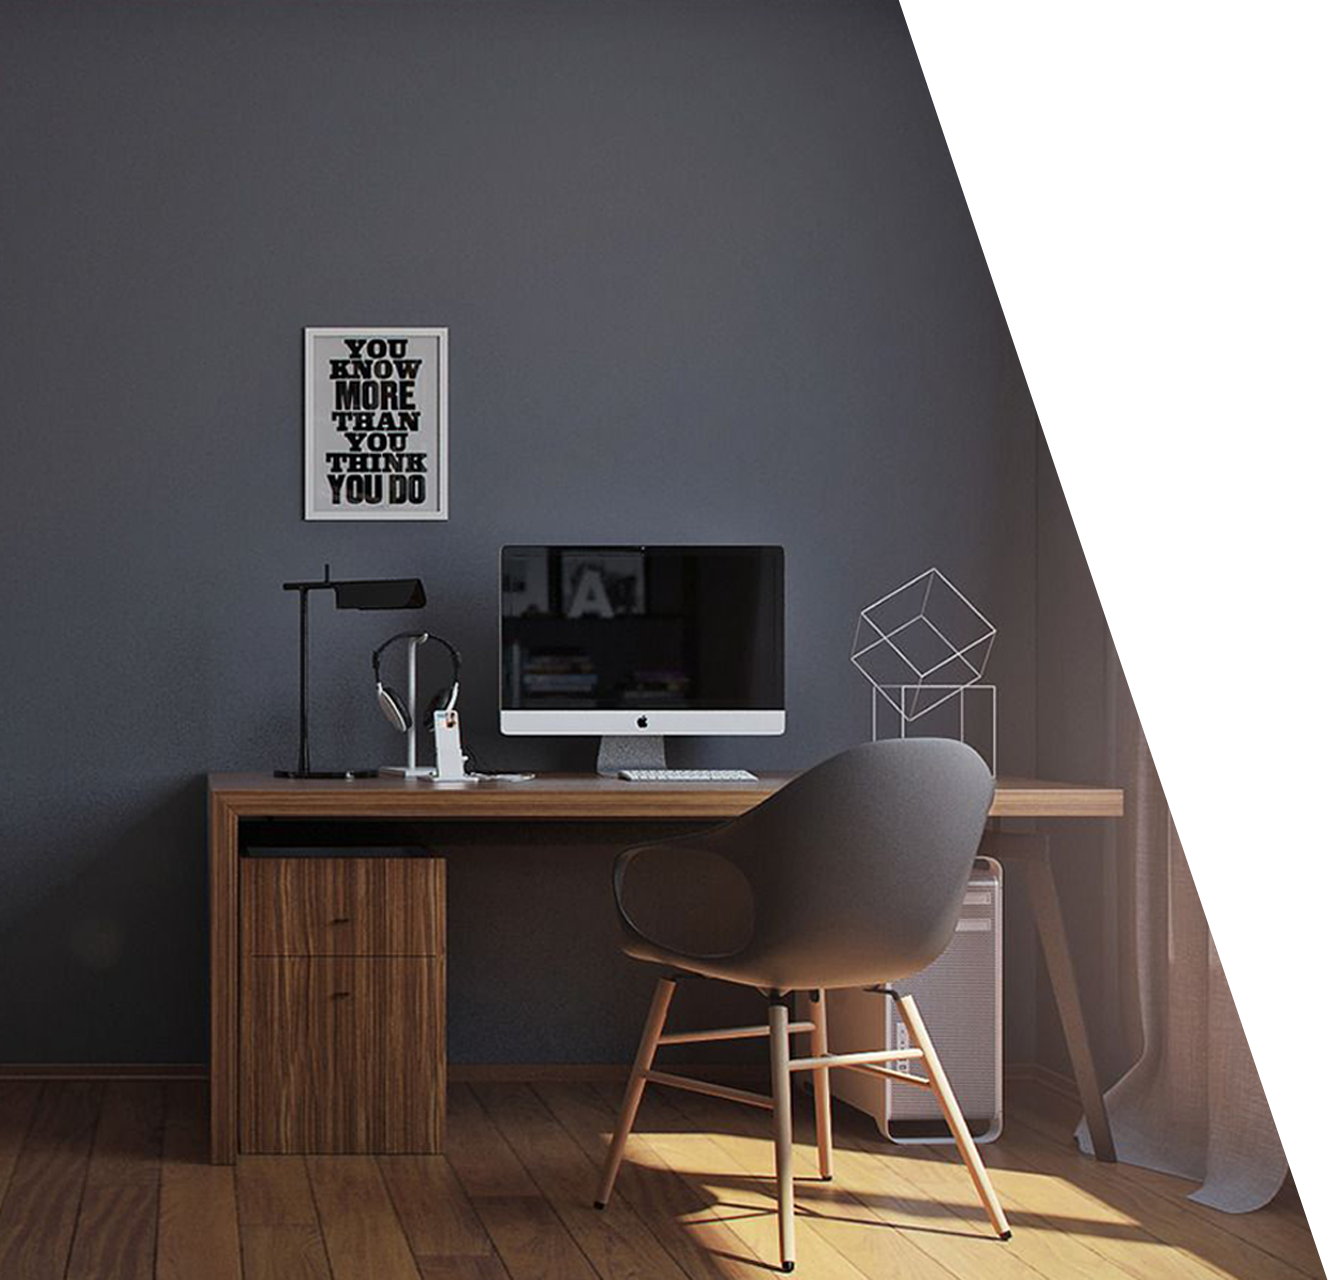
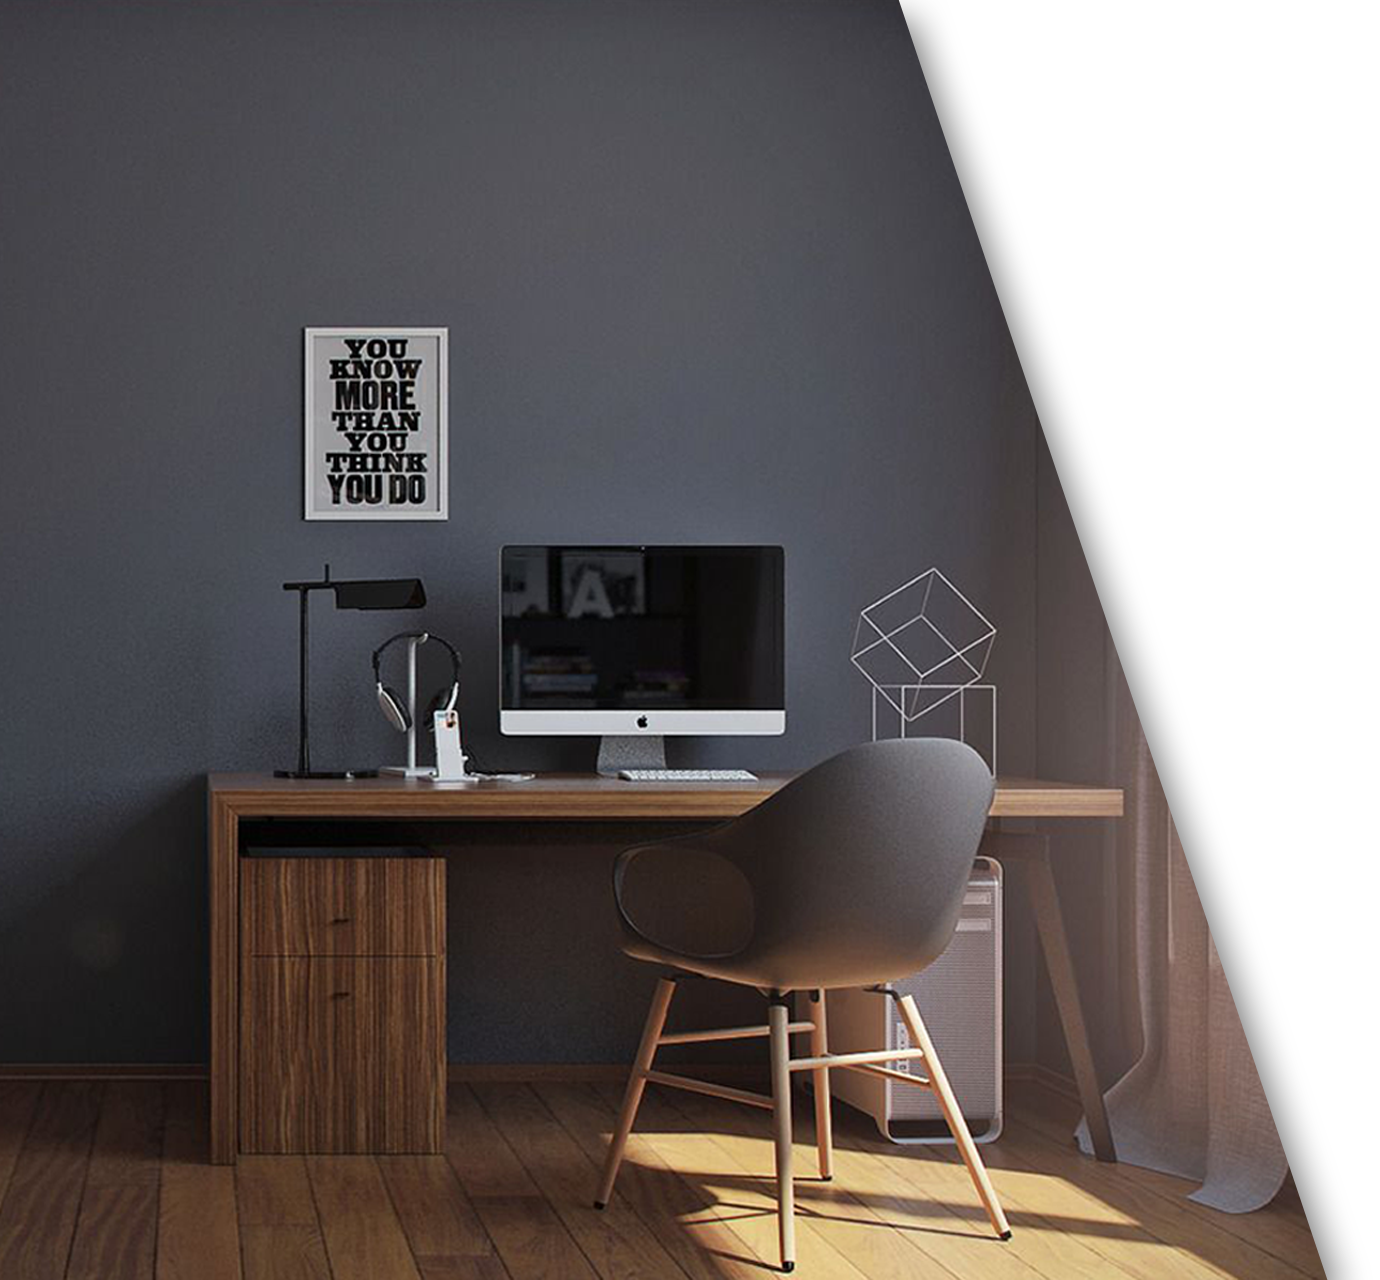
changes

diff --git a/index.html b/index.html
@@ -7,6 +7,7 @@
     <meta name="viewport" content="width=device-width, initial-scale=1.0">
     <meta http-equiv="X-UA-Compatible" content="ie=edge">
     <link rel="stylesheet" href="css/style.css" />
+    <link rel="stylesheet" href="css/main_page.css" />
 </head>
 
 <body>
@@ -17,48 +18,55 @@
             <nav class="menu">
                 <ul class="menu-list">
                     <li class="list-item"><a href="#" class="menu-button">Menu</a></li>
-                    <li class="list-item"><a href="pages/Photoshop_Gellary.html" class="menu-button">Photoshop works</a></li>
-                    <li class="list-item"><a href="pages/Coroldraw_Gellary.html" class="menu-button">Coroldraw works</a></li>
-                    <li class="list-item"><a href="pages/Graphics_Info.html" class="menu-button">Graphics editors</a></li>
+                    <li class="list-item"><a href="pages/Photoshop_Gellary.html" class="menu-button">Photoshop works</a>
+                    </li>
+                    <li class="list-item"><a href="pages/Coroldraw_Gellary.html" class="menu-button">Coroldraw works</a>
+                    </li>
+                    <li class="list-item"><a href="pages/Graphics_Info.html" class="menu-button">Graphics editors</a>
+                    </li>
                     <li class="list-item"><a href="#" class="menu-button">Website by template</a></li>
                 </ul>
             </nav>
         </header>
 
-        <!--Photo of decoration-->
-        <div class="photo">
-            <div class="photo-line"></div>
+        <div class="content">
+            <!--Photo of decoration-->
+            <div class="photo">
+                <img src="img/decoration/decoration_image.png">
+                <div class="photo-line"></div>
+            </div>
+
+            <!--Main content for page-->
+            <main class="main">
+                <header class="header-main">
+                    <div class="header-main-text">
+                        <h1 class="head-page">Practic Report<br>by specialty</h1>
+                    </div>
+
+                    <div class="by-specialty">
+                        <div class="gray-box"></div>
+                        <p class="text-by-specialty">09.02.03<br>Programming in computer systems</p>
+                        <p class="text-practic-name">PM.04<br>Perfomance of work as an operator of electronic computing
+                            and
+                            computing machines</p>
+                        <p class="text-practic-leader">Practic leader Crivoruchko N.A.</p>
+                    </div>
+
+                    <div class="orange-box"></div>
+
+                    <div class="me-data">
+                        <div class="logo"><img></div>
+                        <div class="by-group"><img></div>
+                    </div>
+
+                    <div class="counter-works-list">
+                        <div class="counter-work">12<br>works in photoshop</div>
+                        <div class="counter-work">1<br>works in coroldraw</div>
+                        <div class="counter-work">1<br>websites</div>
+                    </div>
+                </header>
+            </main>
         </div>
-
-        <!--Main content for page-->
-        <main class="main">
-            <header class="header-main">
-                <div class="header-main-text">
-                    <h1 class="head-page">Practic Report<br>by specialty</h1>
-                </div>
-
-                <div class="by-specialty">
-                    <div class="gray-box"></div>
-                    <p class="text-by-specialty">09.02.03<br>Programming in computer systems</p>
-                    <p class="text-practic-name">PM.04<br>Perfomance of work as an operator of electronic computing and
-                        computing machines</p>
-                    <p class="text-practic-leader">Practic leader Crivoruchko N.A.</p>
-                </div>
-
-                <div class="orange-box"></div>
-
-                <div class="me-data">
-                    <div class="logo"><img></div>
-                    <div class="by-group"><img></div>
-                </div>
-
-                <div class="counter-works-list">
-                    <div class="counter-work">12<br>works in photoshop</div>
-                    <div class="counter-work">1<br>works in coroldraw</div>
-                    <div class="counter-work">1<br>websites</div>
-                </div>
-            </header>
-        </main>
 
         <!--Footer for page-->
         <footer class="footer">

diff --git a/css/style.css b/css/style.css
@@ -17,6 +17,7 @@
 
 body {
     margin: 0;
+    position: relative;
 }
 
 .page {
@@ -29,6 +30,10 @@ body {
     display: flex;
     width: 100%;
     height: 65px;
+    position: absolute;
+    top: 0;
+    left: 0;
+    z-index: 2;
 }
 
 .head-text {
@@ -108,7 +113,7 @@ body {
     background-color: #484848;
 }
 
-.menu-list .list-item:not(last-child):after {
+.menu-list .list-item:after {
     content: "";
     display: block;
     width: 5px;
@@ -117,6 +122,10 @@ body {
     top: -5px;
     right: -12px;
     border-right: 1px solid #ffffff;
+}
+
+.menu-list .list-item:last-child:after {
+    display: none;
 }
 
 .menu-list .list-item:last-child {
@@ -143,6 +152,9 @@ body {
     height: 260px;
     justify-content: space-around;
     align-items: center;
+    position: absolute;
+    bottom: 0;
+    left: 0;
 
     background-color: #000000;
 }

diff --git a/css/main_page.css b/css/main_page.css
@@ -1,0 +1,28 @@
+/*------PHOTO OF DECORATION------*/
+
+.photo {
+    width: 1380px;
+    height: 1290px;
+    background: url("../img/decoration/decoration_image.png") 0 0 no-repeat;
+}
+
+.photo-line {
+    position: absolute;
+    width: 460px;
+    height: 1080px;
+    background-color: #f7c825;
+    background-image: url(../img/decoration/grid_of_rhombuses.png);
+    background-size: cover;
+    background-position: center;
+    opacity: 0.2;
+    top: 0;
+    left: 140px;
+}
+
+/*------MAIN FOR PAGE------*/
+
+.main {
+    position: absolute;
+    top: 100px;
+    right: 300px;
+}
